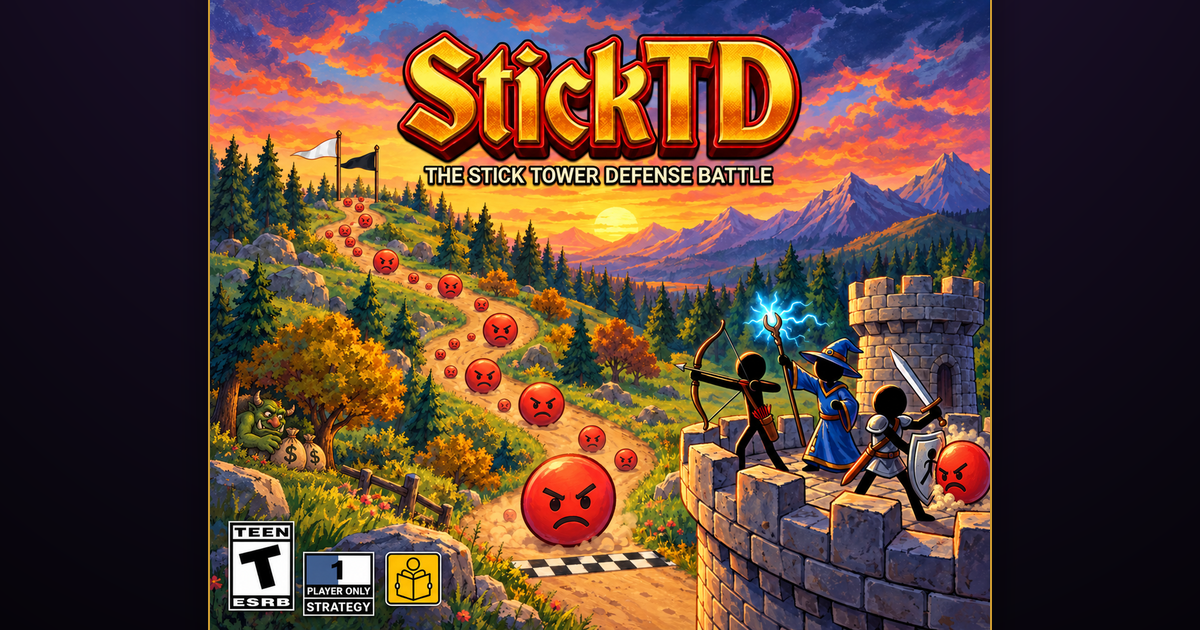
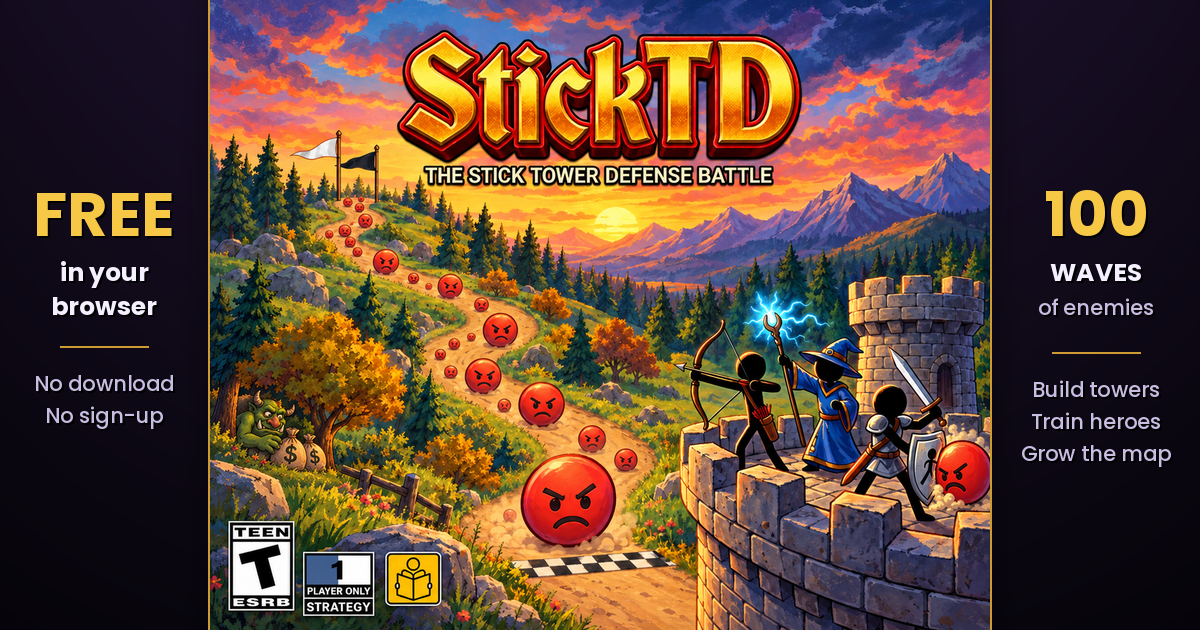
1.6.161

diff --git a/index.html b/index.html
@@ -13,17 +13,17 @@
 <meta property="og:type" content="website">
 <meta property="og:title" content="StickTD — Stick Tower Defense">
 <meta property="og:description" content="A free browser-based Stick Tower Defense game — evolving towers, endless waves, and detailed procedural combat evidence effects.">
-<meta property="og:image" content="https://sauerninja.github.io/StickTD/og-image.png?v=3">
+<meta property="og:image" content="https://sauerninja.github.io/StickTD/og-image.png?v=4">
 <meta property="og:image:width" content="1200">
 <meta property="og:image:height" content="630">
-<meta property="og:image:alt" content="StickTD, the stick tower defense battle: stick-figure archer, mage and swordsman on a castle tower defending a winding road from angry red enemies">
+<meta property="og:image:alt" content="StickTD, the stick tower defense battle: stick-figure archer, mage and swordsman on a castle tower defending a winding road from angry red enemies. Free in your browser, no download or sign-up, 100 waves of enemies: build towers, train heroes, grow the map">
 <meta property="og:url" content="https://sauerninja.github.io/StickTD/">
 <meta property="og:site_name" content="StickTD">
 <meta property="og:locale" content="en_US">
 <meta name="twitter:card" content="summary_large_image">
 <meta name="twitter:title" content="StickTD — Stick Tower Defense">
 <meta name="twitter:description" content="A free browser-based Stick Tower Defense game — evolving towers, endless waves, and detailed procedural combat evidence effects.">
-<meta name="twitter:image" content="https://sauerninja.github.io/StickTD/og-image.png?v=3">
+<meta name="twitter:image" content="https://sauerninja.github.io/StickTD/og-image.png?v=4">
 <meta name="theme-color" content="#8a5a2a">
 <link rel="manifest" href="manifest.json">
 <script type="application/ld+json">
@@ -34,7 +34,7 @@
   "alternateName": "Stick Tower Defense",
   "description": "A free browser-based Stick Tower Defense game — evolving towers, endless waves, and detailed procedural combat evidence effects.",
   "url": "https://sauerninja.github.io/StickTD/",
-  "image": "https://sauerninja.github.io/StickTD/og-image.png?v=3",
+  "image": "https://sauerninja.github.io/StickTD/og-image.png?v=4",
   "genre": ["Tower Defense", "Strategy"],
   "gamePlatform": "Web Browser",
   "applicationCategory": "Game",
@@ -67,8 +67,19 @@
     'ad_personalization': 'denied'
   });
   gtag('js', new Date());
-  gtag('config', 'GT-TW5SNHS6'); // Google Tag container
-  gtag('config', 'G-B6H58BQ50N'); // GA4 destination
+  // PLATFORM-DETECT-01 (1.6.161) — see CHANGELOG.md § [1.6.161]. One Analytics stream covers every place the game is hosted. SameSite=None cookies let the tag keep its visitor id when the game
+  // runs inside another site's frame (itch.io), and the platform name rides on every game event so reports can split GitHub Pages from itch.io.
+  window.detectPlayPlatform = function(hostname, referrer, isEmbedded){
+    hostname = String(hostname || ''); referrer = String(referrer || '');
+    if(/(^|\.)(itch\.io|itch\.zone|hwcdn\.net)$/.test(hostname) || (isEmbedded && /itch\.io/.test(referrer))) return 'itch.io';
+    if(/(^|\.)github\.io$/.test(hostname)) return 'github-pages';
+    if(!hostname) return 'local-file';
+    return 'other';
+  };
+  window.STICKTD_PLATFORM = window.detectPlayPlatform(location.hostname, document.referrer, window.top !== window);
+  var tagCookieOptions = { cookie_flags: 'SameSite=None;Secure' };
+  gtag('config', 'GT-TW5SNHS6', tagCookieOptions); // Google Tag container
+  gtag('config', 'G-B6H58BQ50N', tagCookieOptions); // GA4 destination
   // CA002 — see CHANGELOG.md § [1.5.7] Code Archaeology, CA002
   window.trackEvent = function(name, params){
     try{ gtag('event', name, params || {}); }catch(e){ /* analytics is never allowed to break the game */ }
@@ -1244,7 +1255,7 @@
 /* =========================================================
    CONFIG
    ========================================================= */
-const GAME_VERSION = '1.6.159'; // bump this on meaningful feature/balance changes — shown in Settings > About, on the start screen, and stamped into every save file
+const GAME_VERSION = '1.6.161'; // bump this on meaningful feature/balance changes — shown in Settings > About, on the start screen, and stamped into every save file
 const TILE_SIZE = 64, COLS = 32, ROWS = 20;
 const WORLD_MAX_W = TILE_SIZE * COLS, WORLD_MAX_H = TILE_SIZE * ROWS; // fixed maximum world extent — map generation/caching/bounds-checking always use this, never the viewport size
 let CANVAS_W = WORLD_MAX_W, CANVAS_H = WORLD_MAX_H; // viewport/display resolution — recalculated to match the actual window shape by updateCanvasDimensions()
@@ -5020,7 +5031,7 @@ const waveTelemetry = { startedAtGameTime: 0, livesAtStart: 0, goldAtStart: 0, e
 function trackGameEvent(name, params){
   const declaredParams = TELEMETRY_EVENTS[name];
   if(!declaredParams){ console.warn('trackGameEvent: "' + name + '" is not in TELEMETRY_EVENTS'); return; }
-  const payload = { game_version: GAME_VERSION, wave: waveIndex, quality: graphicsQuality };
+  const payload = { game_version: GAME_VERSION, wave: waveIndex, quality: graphicsQuality, platform: window.STICKTD_PLATFORM || 'other' };
   if(params){
     for(const key of declaredParams){
       if(params[key] === undefined) continue;

diff --git a/AGENTS.md b/AGENTS.md
@@ -500,7 +500,9 @@ Event parameters in `TELEMETRY_EVENTS` must never be named `source`, `medium`, `
 
 Key events are few and single-shot. `game_started`, `engaged_player` (sent at most once per session, after a few waves are cleared) and `save_downloaded` are the ones to mark as key events in Google Analytics; `wave_milestone` repeats every few waves, so it is a measurement event, not a key event. A new event meant to be a key event should fire at most once per session.
 
-**Share image.** `og-image.png` in the repository root is the picture shown when the game is shared; it must be 1200 by 630 pixels (the size the `og:image:width` and `og:image:height` tags state) and is referenced with a `?v=` number in the Open Graph, Twitter and structured-data tags. When the picture changes, raise that number everywhere together so social sites fetch the new one instead of their cached copy. It shows the owner's cover art whole, never cropped, on a clean dark background with no blurred copy of the picture beside it. The art contains ESRB-style rating badges at its bottom-left; StickTD has no official rating, so flag that before the image is reused anywhere a rating would be taken at face value (a store page, for example).
+**Share image.** `og-image.png` in the repository root is the picture shown when the game is shared; it must be 1200 by 630 pixels (the size the `og:image:width` and `og:image:height` tags state) and is referenced with a `?v=` number in the Open Graph, Twitter and structured-data tags. When the picture changes, raise that number everywhere together so social sites fetch the new one instead of their cached copy. It shows the owner's cover art whole, never cropped, centred on a clean dark background with no blurred copy of the picture beside it; the dark side panels carry the information shown when the link is shared (free in your browser, no download or sign-up, 100 waves of enemies, build towers, train heroes, grow the map), so keep those lines true to the game and update them if any of it changes. The art contains ESRB-style rating badges at its bottom-left; StickTD has no official rating, so flag that before the image is reused anywhere a rating would be taken at face value (a store page, for example).
+
+**Where the game is played.** One Analytics stream serves every host. The tag keeps its cookies with `SameSite=None;Secure` so a visitor keeps one id inside another site's frame (itch.io), and every game event carries `platform` (`github-pages`, `itch.io`, `local-file` or `other`, from `detectPlayPlatform()`); page views carry the hostname instead. A new host the game is published on needs only a branch in `detectPlayPlatform()`, not a new stream.
 
 **Where the master list lives.** The `TELEMETRY_EVENTS` table in `index.html` is the single master list of events and their parameters; nothing else restates it. The owner's one-time clicks in Google Analytics and Search Console (key events, custom dimensions, retention, site verification) live in `BACKLOG.md` in section 1 ("Owner setup"), not here. When a change adds a parameter worth reporting on, add it to that list's custom dimensions or metrics in the same change.
 

diff --git a/CHANGELOG.md b/CHANGELOG.md
@@ -1,5 +1,15 @@
 # Changelog
 
+## [1.6.161] - 2026-10-01 — Tell itch.io and GitHub Pages plays apart
+- **Platform on every event (`PLATFORM-DETECT-01`)**: one Analytics stream already receives plays from every place the game is hosted, so no second stream is needed. The page now works out where it is running (`github-pages`, `itch.io`, `local-file` or `other`, from `detectPlayPlatform()`, which also recognises itch.io's game frame by its host or by its referrer) and sends that as `platform` with every game event. Page views carry the hostname, so the two places can also be split with Analytics' Hostname dimension.
+- **Cookies for a framed game**: the Analytics tag now sets its cookies with `SameSite=None;Secure`. itch.io runs a game inside a frame from another domain, where the default cookies are often refused and every visit would look like a new visitor.
+- **Owner setup**: `platform` is added to the custom dimensions to register (section 1 of `BACKLOG.md`).
+- **Verified**: the page's structured data still parses and the game loads with no script errors; `detectPlayPlatform()` returned `github-pages` for a github.io host, `itch.io` for an itch.zone host, an itch.io host and a framed page whose referrer is itch.io, `local-file` for an empty host and `other` for anything else.
+
+## [1.6.160] - 2026-10-01 — Information in the share image's side panels
+- **Share image text**: the dark side panels of `og-image.png` now carry the information people see when the link is shared. Left: "FREE in your browser", "No download", "No sign-up". Right: "100 WAVES of enemies", "Build towers", "Train heroes", "Grow the map". The cover art stays whole in the middle. The Open Graph image description repeats the same facts for screen readers and search engines, and the picture's cache number is now `?v=4`.
+- **Verified**: both structured-data blocks still parse; the image was viewed at full size and is 1200 by 630 (about 1 MB).
+
 ## [1.6.159] - 2026-10-01 — Share image shows the whole art
 - **Share image redone**: the 1.6.158 version cut the picture off at the bottom and filled its sides with a blurred copy, which looked rough on GitHub and in previews. `og-image.png` now shows the owner's whole cover art, uncropped, scaled to the full 630 px height and centred on a clean dark background with a thin gold edge and no blur. It stays 1200 by 630 (about 1 MB). The art includes the rating-style badges at its bottom-left, because painting them out of the picture left visible smears; `AGENTS.md` notes that StickTD has no official rating. The page tags now point at `og-image.png?v=3` so sites that cached the previous picture fetch this one.
 - **Verified**: both structured-data blocks still parse; the image was viewed at full size.

diff --git a/BACKLOG.md b/BACKLOG.md
@@ -13,7 +13,7 @@ This is the single list of everything still open. Shipped work is removed and li
 None of this is done by the game or by an agent; tick items off as they are finished. Counts in Analytics only include visitors who accept the cookie banner, so they are a floor.
 
 - [ ] **Key events.** Analytics, Admin (gear, bottom left), Events, switch on "Mark as key event" for `game_started`, `engaged_player`, `save_downloaded`. `engaged_player` appears in the list only after it has been sent once. Do not mark `wave_milestone` (it repeats every fifth wave).
-- [ ] **Custom dimensions** (Admin, Custom definitions, Create custom dimension, scope Event, parameter name exactly as written; without these a report cannot show which tower or item): `game_version`, `quality`, `device`, `first_visit`, `tower_type`, `enemy_type`, `item`, `rarity`, `payment_type`, `structure`, `scenery_type`, `livestock`, `cause`, `setting`, `setting_value`.
+- [ ] **Custom dimensions** (Admin, Custom definitions, Create custom dimension, scope Event, parameter name exactly as written; without these a report cannot show which tower or item): `game_version`, `quality`, `platform`, `device`, `first_visit`, `tower_type`, `enemy_type`, `item`, `rarity`, `payment_type`, `structure`, `scenery_type`, `livestock`, `cause`, `setting`, `setting_value`.
 - [ ] **Custom metrics** (same place, scope Event): `wave`, `waves_completed`, `wave_reached`, `duration_s` (unit Seconds), `lives_lost`, `cost`, `level`, `refund`, `fps_median`.
 - [ ] **Data retention** to 14 months (Admin, Data settings, Data retention), and an internal-traffic filter so your own plays are excluded.
 - [ ] **Search Console.** Add a URL-prefix property for the game address in the same Chrome profile used for Analytics; it should verify automatically because the Analytics tag is on the page (otherwise choose the HTML tag method and have the `google-site-verification` meta line added to the head, then upload and click Verify). Submit `sitemap.xml`, then URL Inspection, Request indexing.
